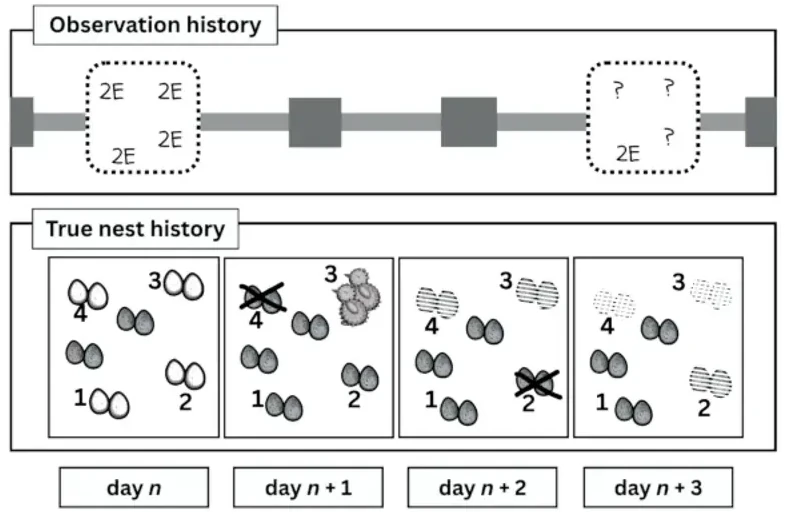
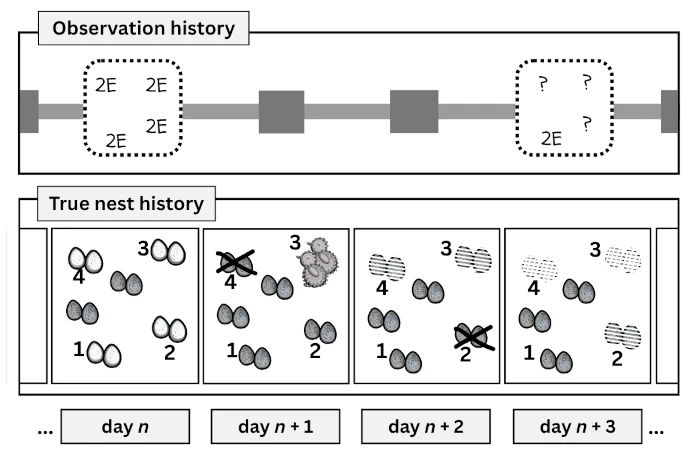
updated nest sim page

Changed region(s): [[0.0, 0.0, 0.99, 0.9782]]

diff --git a/_portfolio/nest_sim.md b/_portfolio/nest_sim.md
@@ -10,20 +10,37 @@ header:
 ---
 
 <!-- <figure style="width: 700px;"> -->
-### The virtual ecologist model has two submodels:
-
-<figure style="float: right; max-width: 450px;">
+<figure style="float: right; max-width: 430px;">
     <img src="/assets/images/submodels1.webp" alt="depiction of the two submodels">
     <figcaption> Visualization of the two submodels, with a true underlying nest history generated by the nest creation submodel, and an observation history generated by the observer submodel. Discovered nests (white) fail or hatch, and evidence decays as days pass. </figcaption>
 </figure>
 
-1. The nest creation submodel.
+<figure style="float: right; max-width: 480px;">
+    <img src="/assets/images/submodels2.webp" alt="depiction of the two submodels with storms">
+    <figcaption> A storm occurs between observations, leading to uncertain-fate nests (nests 2, 3, & 4; dashed outlines). Nest 1 hatches after the storm, so the evidence decays at the normal rate. </figcaption>
+</figure>
+
+<!-- * <span style="color: #3850d9; font-weight: bold;">The nest creation submodel.</span> -->
+
+I used synthetic data to assess the impact of increasing numbers of uncertain-fate nests and misclassified nests on estimates of daily survival rate (DSR) of nests. Uncertain nest fates and misclassified nest fates were not fixed values but rather emergent properties of the modeled storm behavior. This is an example of a "virtual ecologist" model, because there is a modeled observer and the "true" underlying values are known, allowing me to estimate the bias in nest survival estimates that results from different methods.
+
+### The virtual ecologist model has two submodels:
+
+* <span style="color: #2a4fb5; font-weight: bold;">The nest creation submodel.</span>
 
     Randomly chooses initiation date from a real distribution of SW Louisiana nest initiation dates. Randomly samples a negative binomial distribution to get number of days until nest failure (probability = 1-DSR). If number of days exceeds incubation length, nest hatches.
 
-2. The observer submodel.
+* <span style="color: #2a4fb5; font-weight: bold;">The observer submodel.</span>
 
-    Ability to correctly classify nest fate decreases over time following a simple exponential decay function. Storms increase the rate of evidence decay, making it more likely that observer will have nests with uncertain fate. For uncertain-fate nests during storms, observer either marks nest fate "unknown" or "flooded", which means nests are either excluded or some fraction are misclassified because they did not truly flood.
+    Ability to correctly classify nest fate decreases over time following a simple exponential decay function. Storms increase the rate of evidence decay, making it more likely that observer will have nests with uncertain fate. 
+
+    For uncertain-fate nests during storms, observer has a choice: 
+
+    * <span style="color: #7A67EE; font-weight: bold;">Observer 1</span> marks these nest fates "unknown" 
+
+    * <span style="color: #40E0D0; font-weight: bold;">Observer 2</span> marks these nest fates "flooded"
+
+    This means some fraction of nests are either excluded because fate is unknown, or are misclassified because they did not truly flood.
 
 
 <!-- <figure style="width: 700px;"> -->
@@ -32,14 +49,19 @@ header:
 <!-- </figure> -->
 ## Output from the Python simulation:
 
-Sample simulation with only 15 nests (true simulation had 250 or 500).
+Sample simulation with only 20 nests (true simulation had 250 or 500).
 
-### Parameter values:
 
-        stormFate stormUnk  pMortFl  MCtype  propMC  propUnk stormFrq stormDur decayRate  obsFreq hatchTime numNests probSurv discProb  brDays 
-          "TRUE"   "TRUE"   "0.75"  "none"     "0"      "0"      "2"      "1"   "0.08"      "7"      "20"    "250"   "0.96"    "0.8"    "180" 
+1. <span style="color: #2a4fb5; font-weight: bold;">Parameter values:</span>
 
-### Generate storm days and survey days for observer:
+        stormFate stormUnk  pMortFl  MCtype  propMC  propUnk stormFrq stormDur
+          "TRUE"   "TRUE"   "0.75"  "none"     "0"      "0"      "2"      "1" 
+
+        decayRate  obsFreq hatchTime numNests probSurv discProb  brDays 
+          "0.08"      "7"      "20"    "250"   "0.96"    "0.8"    "180" 
+
+2. <span style="color: #2a4fb5; font-weight: bold;">Generate storm days and survey days for observer:</span>
+
 
         >> storm days =  59 63
         >> survey days, w/o storms:
@@ -47,14 +69,20 @@ Sample simulation with only 15 nests (true simulation had 250 or 500).
         >> survey intervals:      
             [0 7  7  7  7  7  7  7  7  9  7  7  7  7   7   7   7] ; sum(surveyInts>obsFreq)=1
 
-### Nest creation submodel:
+    After creating the storms and survey days, run the nest creation & observer submodels. Values for each of the 20 nests are printed. The nests are numbered 0-19 because Python indexes from 0 (unlike R).
 
-Fates: 0=hatch, 1=depredated, 2=flooded. For each nest:
+
+3. <span style="color: #2a4fb5; font-weight: bold;">Nest creation submodel:</span>
+
+
+    Sample the initiation dates and survival times:
 
         >> init dates:         
             [ 25  8 47 32 43 32 61 73 43 30 26 46 43 58 11 52 11 36 27 20 ]
         >> survival in days:   
             [ 20 20  3 14 20 20 20 16 20 20  7 20 20 20 20 20 20 14 20 13 ]
+
+    Determine which storms happened while nest was active, and whether nest flooded (here, only nest 12 was active during a storm and did NOT flood). After determining storm activity during the nest period, get the true end date for each nest, including storms:
 
         >> which storm?             
             [  0  0  0  0 59  0 63  0 59  0  0 59 59 59  0 59  0  0  0  0 ]
@@ -64,17 +92,27 @@ Fates: 0=hatch, 1=depredated, 2=flooded. For each nest:
         >> end dates (w/storms):   
             [ 45 28 50 46 59 52 63 89 59 50 33 59 59 78 31 59 31 50 47 33 ]
 
+    True fates (0=hatch, 1=depredated, 2=flooded):
+
         >> true final nest fate:  
             [  0  0  1  1  2  0  2  1  2  0  1  2  2  0  0  2  0  1  0  1 ]
 
-<figure class="fig-center">
-    <img src="/assets/images/init_dates.webp" alt="sampled nest initiation dates for 100 runs of model compared to true initiation dates. the sampled distibutrions follow the true distribution.">
-    <figcaption> Sampled nest initiation dates for 100 runs of model (pink) compared to true initiation dates (blue).</figcaption>
-</figure>
+    Plots:
+    <div style="display: flex; gap: 15px; margin-top: 5px;">
+        <figure style="flex: 1; margin: 0; vertical-align: bottom;">
+            <img src="/assets/images/storm_dates.webp" alt="sampled storm dates for 100 runs of model compared to true storm dates. the sampled distibutrions follow the true distribution.">
+            <figcaption> Randomly chosen storm dates from 100 separate runs of model (dark blue) compared to true storm date distribution for the Atlantic (light blue).</figcaption>
+        </figure>
+        <figure style="flex: 1; margin: 0; vertical-align: bottom;">
+            <img src="/assets/images/init_dates.webp" alt="sampled nest initiation dates for 100 runs of model compared to true initiation dates. the sampled distibutrions follow the true distribution.">
+            <figcaption> Distributions of sampled nest initiation dates for 100 runs of model with 250 nests each (pink) compared to true initiation dates (blue).</figcaption>
+        </figure>
+    </div>
 
-### Observer submodel:
+4. <span style="color: #2a4fb5; font-weight: bold;">Observer submodel:</span>
 
-Fates: 0=hatch, 1=depredated, 2=flooded 7=unknown. For each nest:
+
+    For each nest, determine how long until discovery and how many surveys happened while nest was active:
 
         >> surveys til discovery:
             [ 0  0  0  3  0  0  0  1  1  0  0  0  0  1  0  2  0  2  0  0 ]
@@ -84,6 +122,8 @@ Fates: 0=hatch, 1=depredated, 2=flooded 7=unknown. For each nest:
         > nest discovered? (svysTilDiscovery < num_svy):
             [ 1  1  0  0  1  1  0  1  1  1  1  1  1  0  1  0  1  0  1  1 ]
 
+    For discovered nests, determine the date when the nest was...
+
         >> first found: 
             [ 29  8  0  0 43  36 0 80 50 36 29 50 43  0 15  0 15  0 29 22]
         >> last active:
@@ -91,14 +131,24 @@ Fates: 0=hatch, 1=depredated, 2=flooded 7=unknown. For each nest:
         >> last checked:
             [ 50 29  0  0 66  57 0 94 66 50 36 66 66  0 36  0 36  0 50 36]
 
-        >> nests with correct assigned fate (np.where(fateProb<fateCuesPresent)):
+    Which nests (by nest ID number) had...
+
+        >> correct assigned fate (np.where(fateProb<fateCuesPresent)):
             [ 2  3  4  5  7 11 15 16 17 18 ]
 
-        >> nests with storm in final interval (np.where(stormFinalInt)):    
+        >> storm during final interval (np.where(stormFinalInt)):    
             [ 4  6  8  11  12  13  15 ]
+
+    Assigned fate for each nest (0=hatch, 1=depredated, 2=flooded, 7=unknown):
 
         >> assigned fate:     
             [ 7  7  1  1  2  0  2  1  2  7  7  2  2  2  7  2  0  1  0  7 ]
+
+<!-- <figure style="width: 80%; margin: 0;"> -->
+<figure class="fig-center">
+    <img src="/assets/images/prop_plot3.webp" alt="Plot showing that proportion of nests flooded, hatched, and discovered follow the same patterns as parameter values change, regardless of which choice observer makes. Proportion of nests misclassified and marked unknown, however, follow different patterns depending on observer choice (as expected).">
+    <figcaption> Proportion of nests flooded, hatched, and discovered follow the same patterns as parameter values change, regardless of which choice observer makes. Proportion of nests misclassified and marked unknown, however, follow different patterns depending on observer choice (as expected).</figcaption>
+</figure>
 
 
 <p style="margin-top: 50px;">
@@ -106,3 +156,16 @@ Fates: 0=hatch, 1=depredated, 2=flooded 7=unknown. For each nest:
     View project on GitHub
   </a>
 </p>
+<!-- <figure class="fig-center"> -->
+
+<!-- | Image 1 Heading | Image 2 Heading | -->
+<!-- | :---: | :---: | -->
+<!-- | ![Image 1](url1.jpg) | ![Image 2](url2.jpg) | -->
+<!-- | *Caption for 1* | *Caption for 2* | -->
+
+<!-- |!["sampled storm dates for 100 runs of model compared to true storm dates. the sampled distibutrions follow the true distribution."]("../assets/images/storm_dates.webp")|!["sampled nest initiation dates for 100 runs of model compared to true initiation dates. the sampled distibutrions follow the true distribution."]("../assets/images/init_dates.webp")| -->
+<!-- |!["Plot showing that distribution of storm dates for 100 runs of model follows the true distribution."]("../assets/images/storm_dates.webp")|!["Plot showing that distributions of initiation dates for 100 runs of model follow true distribution."]("../assets/images/init_dates.webp")| -->
+<!-- |:-:|:-:| -->
+<!-- |Randomly chosen storm dates from 100 separate runs of model (dark blue) compared to true storm date distribution for the Atlantic (light blue)|Distributions of sampled nest initiation dates for 100 runs of model with 250 nests each (pink) compared to true initiation dates (blue).| -->
+
+<!-- <figure style="display: inline-block; width: 46%; margin: 0; vertical-align: bottom;"> -->
